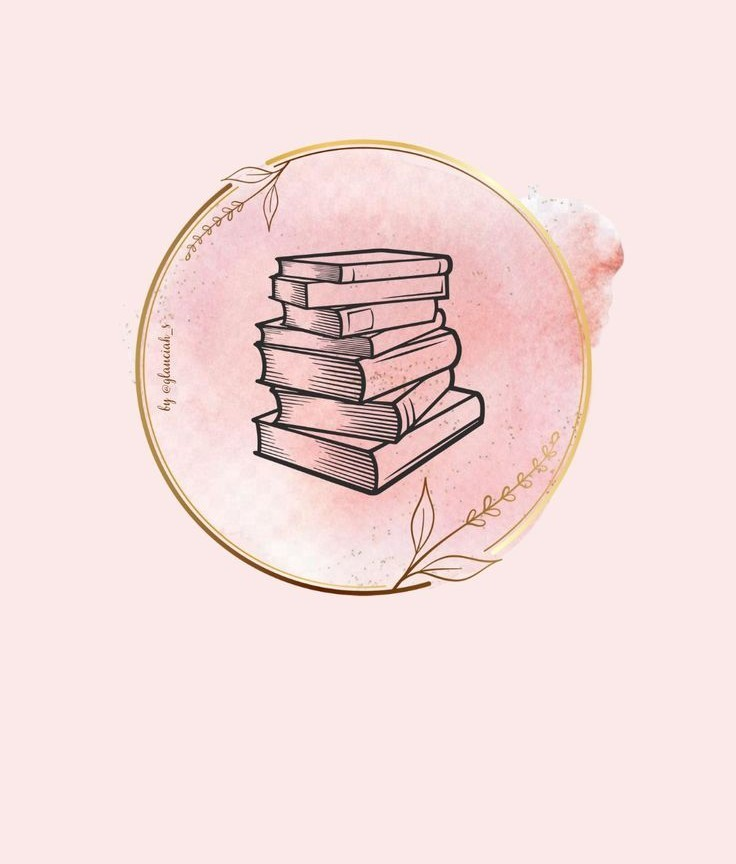
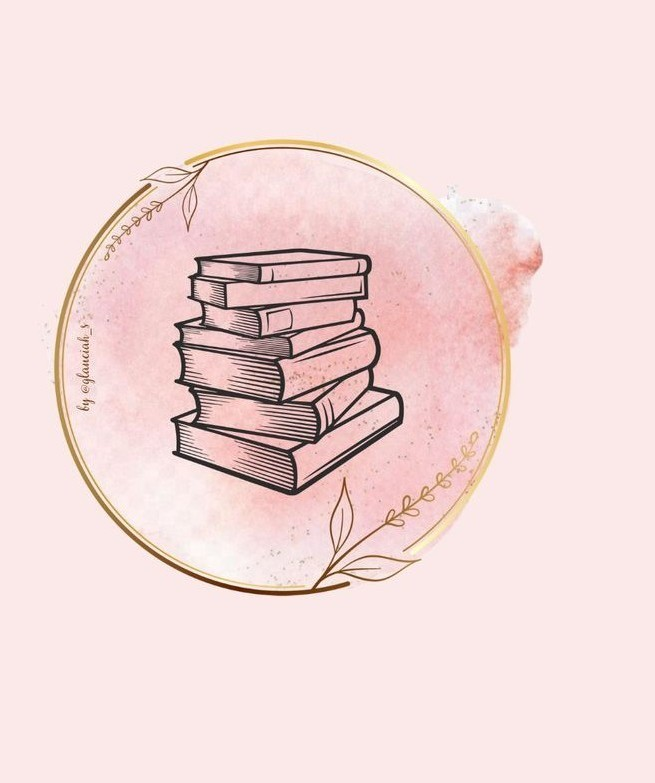
update1

Changed region(s): [[0.0611, 0.1533, 0.855, 0.7663]]

diff --git a/content/index.css b/content/index.css
@@ -316,13 +316,38 @@ body.light header {
       background-size: cover;
     }
     #j11{
-      background-image: url("../media/bookshelf/1.jpg");
+      background-image: url("../media/bookshelf/20.jpg");
       background-size: cover;
     }
     #j12{
-      background-image: url("../media/bookshelf/1.jpg");
+      background-image: url("../media/bookshelf/16.webp");
       background-size: cover;
     }
+    #j13{
+      background-image: url("../media/bookshelf/6.jpg");
+      background-size: cover;
+    }
+    #j14{
+      background-image: url("../media/bookshelf/20.jpg");
+      background-size: cover;
+    }
+    #j15{
+      background-image: url("../media/bookshelf/16.webp");
+      background-size: cover;
+    }
+    #j16{
+      background-image: url("../media/bookshelf/6.jpg");
+      background-size: cover;
+    }
+    #j17{
+      background-image: url("../media/bookshelf/20.jpg");
+      background-size: cover;
+    }
+    #j18{
+      background-image: url("../media/bookshelf/16.webp");
+      background-size: cover;
+    }
+
 
     .book-title {
       font-size: 0.85rem;

diff --git a/index.html b/index.html
@@ -78,8 +78,8 @@
       <div class="swiper-slide"><div class="book-cover" id="j8"></div><p class="book-title">شعر</p></div>
       <div class="swiper-slide"><div class="book-cover" id="j9"></div><p class="book-title">زندگینامه</p></div>
       <div class="swiper-slide"><div class="book-cover" id="j10"></div><p class="book-title">دینی</p></div>
-      <div class="swiper-slide"><div class="book-cover" id="j11"></div><p class="book-title">شعر</p></div>
-      <div class="swiper-slide"><div class="book-cover" id="j12"></div><p class="book-title">زندگینامه</p></div>
+      <div class="swiper-slide"><div class="book-cover" id="j11"></div><p class="book-title">فانتزی</p></div>
+      <div class="swiper-slide"><div class="book-cover" id="j12"></div><p class="book-title">آموزشی</p></div>
     </div>
   </div>
 
@@ -87,12 +87,12 @@
   <h2 class="section-title">پرفروشترینها</h2>
   <div class="swiper">
     <div class="swiper-wrapper">
-      <div class="swiper-slide"><div class="book-cover"></div><p class="book-title">رمان کلاسیک</p></div>
-      <div class="swiper-slide"><div class="book-cover"></div><p class="book-title">اثر جدید</p></div>
-      <div class="swiper-slide"><div class="book-cover"></div><p class="book-title">پرفروش جهانی</p></div>
-      <div class="swiper-slide"><div class="book-cover"></div><p class="book-title">کتاب الهامبخش</p></div>
-      <div class="swiper-slide"><div class="book-cover"></div><p class="book-title">رمان عاشقانه</p></div>
-      <div class="swiper-slide"><div class="book-cover"></div><p class="book-title">داستان کوتاه</p></div>
+      <div class="swiper-slide"><div class="book-cover" id="j13"></div><p class="book-title">رمان کلاسیک</p></div>
+      <div class="swiper-slide"><div class="book-cover" id="j1"></div><p class="book-title">اثر جدید</p></div>
+      <div class="swiper-slide"><div class="book-cover" id="j15"></div><p class="book-title">پرفروش جهانی</p></div>
+      <div class="swiper-slide"><div class="book-cover" id="j16"></div><p class="book-title">کتاب الهامبخش</p></div>
+      <div class="swiper-slide"><div class="book-cover" id="j17"></div><p class="book-title">رمان عاشقانه</p></div>
+      <div class="swiper-slide"><div class="book-cover" id="j18"></div><p class="book-title">داستان کوتاه</p></div>
     </div>
   </div>
 